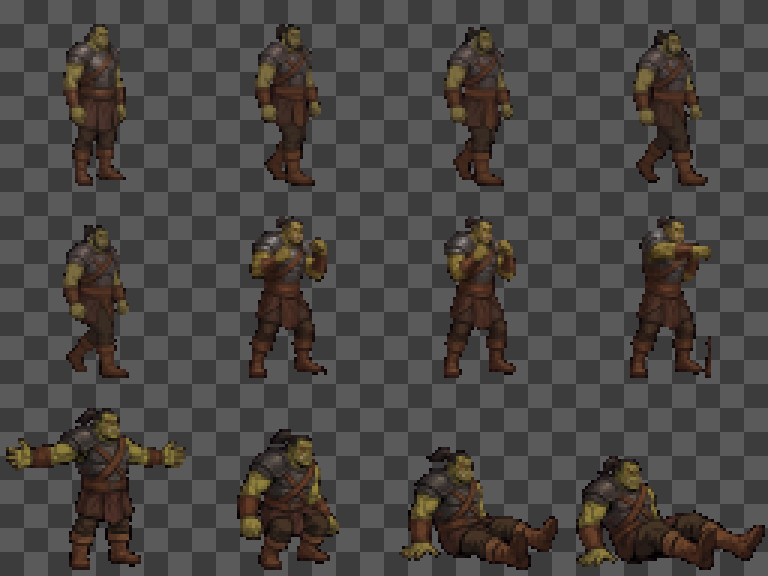
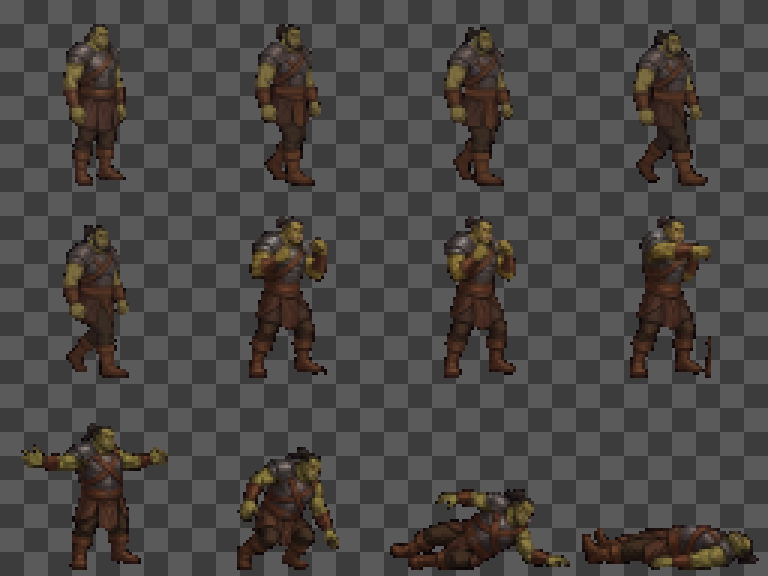
feat(units): orc hero sets wired by race, death animation fixed
anim_set_name() now picks a set by race AND gender: orc men and orc women got
their own 12-frame sheets. Necromants and druids still use the human sheets,
they have no set of their own yet.

The orc man used to sit down when he died instead of falling. Measured on the
source strips, the last panel was w/h 1.67, while a body lying flat reads
2.26-3.01 on the human sets. The death prompt now demands a horizontal body
outright and bans sitting in panels 3-4; the new strip measures w/h 3.84.
Frames 9-12 were re-cut from it, frames 1-8 are byte-identical.

Known cost, accepted by the player: the re-cut came from the Google Vertex
endpoint, because the AI Studio quota was exhausted, and that endpoint draws
the character differently, so the orc loses his cuirass at the moment of
death. Fixing it properly needs the AI Studio quota back, where both prompt
compliance and the existing art style hold.

Pipeline changes:
- extract_hero_nb.py scales a block by BOTH axes, so a wide lying corpse no
  longer overflows the 64px canvas and gets cut; --only/--strip re-cuts a
  single block without touching the other eight frames
- gen_hero_strip.py: femaleize() missed UPPERCASE pronouns, and the leftover
  check matched substrings ("his " inside "This panel is"), so female orcs
  crashed instead of drawing

Changed region(s): [[0.5, 0.7812, 1.0, 1.0], [0.0, 0.6875, 0.25, 1.0], [0.3125, 0.75, 0.4688, 1.0]]

diff --git a/tests/extract_hero_nb.py b/tests/extract_hero_nb.py
@@ -48,6 +48,7 @@ SETS = {
 }
 
 OUT_W, OUT_H, FEET_Y, TARGET_H = 64, 64, 62, 54
+MAX_W = 60        # предел по ширине: та же полоса, что по вертикали (низ 62)
 TOL = 45          # заливка фона от краёв
 STRONG = 120      # порог «настоящей» фигуры против призрака
 MIN_COL = 5       # колонка короче — не фигура
@@ -285,6 +286,10 @@ def main():
     ap = argparse.ArgumentParser()
     ap.add_argument("--tag", default="nb5", choices=sorted(SETS),
                     help="тег полос: nb5 — воин, nb6 — воительница")
+    ap.add_argument("--only", default="", choices=("idle", "walk", "attack", "dying"),
+                    help="перерезать только этот блок, остальные кадры не трогать")
+    ap.add_argument("--strip", default="",
+                    help="полоса для блока из --only (путь к PNG)")
     args = ap.parse_args()
 
     out_folder, out_label = SETS[args.tag]
@@ -298,33 +303,59 @@ def main():
         ("attack", f"hero_attack_{args.tag}.png", 4, 3),
         ("dying", f"hero_die_{args.tag}.png", 4, 4),
     ]:
-        print(f"{name}: {fname}")
-        figs = figures_of(SRC / fname, expect)
+        if args.only and name != args.only:
+            continue
+        # --strip перекрывает полосу этого блока: нужно, когда одна фаза
+        # перегенерирована отдельно, а остальные три остаются из прошлой
+        # сборки (15.10 ночь: у орка поменяли только смерть).
+        src = Path(args.strip) if (args.only and name == args.only and args.strip) else SRC / fname
+        print(f"{name}: {src.name}")
+        figs = figures_of(src, expect)
         if len(figs) != expect or any(f is None for f in figs):
             print(f"FAIL: {name} — фигур {len(figs)}, годных {sum(f is not None for f in figs)}")
             return 1
         blocks.append((name, figs[:take]))
 
+    # Номер первого кадра блока в общей нумерации 1..12. Считается по полной
+    # раскладке, а не по позиции в blocks: при --only в blocks один блок,
+    # а кадры должны попасть на свои места (dying -> 9..12), иначе
+    # перезапись одной фазы сдвинула бы остальные.
+    first = {"idle": 1, "walk": 2, "attack": 6, "dying": 9}
+
     frames = []
     for name, figs in blocks:
-        scale = TARGET_H / max(al.shape[0] for _, al in figs)
-        print(f"{name}: max h={max(al.shape[0] for _, al in figs)} scale={scale:.4f}")
-        for rgb, al in figs:
-            frames.append(fit(rgb, al, scale))
+        # Масштаб блока — общий для всех его фаз, иначе фигура пульсирует
+        # между кадрами. Ограничиваем по ОБЕИМ осям: 15.10 в блоке dying
+        # орка самая высокая фигура стоящая (54 px), а самая широкая — лежащая
+        # (63 px на холсте 64), и по высоте она не влезала: кадр выходил
+        # срезанным по краям. Раньше считался только TARGET_H (15.10).
+        max_h = max(al.shape[0] for _, al in figs)
+        max_w = max(al.shape[1] for _, al in figs)
+        scale = min(TARGET_H / max_h, MAX_W / max_w)
+        print(f"{name}: max h={max_h} w={max_w} scale={scale:.4f}")
+        for k, (rgb, al) in enumerate(figs):
+            frames.append((first[name] + k, fit(rgb, al, scale)))
 
     # Старые кадры от прошлых сборок (25 штук) удаляем: база объявит frames=13,
     # но лишние файлы остались бы в репозитории и импортировались движком.
-    for old in sorted(out_dir.glob("sprites-*.png")):
-        old.unlink()
-    for i, fr in enumerate(frames):
-        fr.save(out_dir / f"sprites-{i + 1:03d}.png")
+    # При --only удалять нельзя — блок один, а кадры остальных фаз на диске
+    # единственные и пришли из другой полосы.
+    if not args.only:
+        for old in sorted(out_dir.glob("sprites-*.png")):
+            old.unlink()
+    for idx, fr in frames:
+        fr.save(out_dir / f"sprites-{idx:03d}.png")
     print(f"записано кадров: {len(frames)}")
 
+    # Контактный лист собирается с диска, по всем sprites-*.png, а не из
+    # набора `frames`: при --only в frames только один блок, и лист из 4
+    # картинок перезаписал бы полный обзор набора из 12 (15.10 ночь).
+    on_disk = sorted(out_dir.glob("sprites-*.png"))
     cols = 4
-    rows = (len(frames) + cols - 1) // cols
+    rows = (len(on_disk) + cols - 1) // cols
     sheet = np.zeros((rows * OUT_H, cols * OUT_W, 3), np.uint8)
-    for i, fr in enumerate(frames):
-        arr = np.array(fr)
+    for i, path in enumerate(on_disk):
+        arr = np.array(Image.open(path).convert("RGBA"))
         yy, xx = np.mgrid[0:OUT_H, 0:OUT_W]
         chk = np.where(((xx // 8) + (yy // 8)) % 2 == 0, 90, 60).astype(np.uint8)
         cell = np.dstack([chk, chk, chk])
@@ -336,9 +367,13 @@ def main():
         .save(out_dir / "_contact_sheet.png")
 
     entry = {
+        # frames — ВСЕГО в наборе (idle1+move4+attack3+dying4 = 12), а не
+        # число записанных в этом прогоне. При --only блок один, и раньше
+        # сюда попадало 4 — набор в базе объявлял бы 4 кадра (15.10 ночь).
         "desc": f"Hero: {out_label}, Gemini 3.1 Flash image preview 4-panel strips, "
                 "three-quarter east view + mirror, idle1+move4+attack3+dying4",
-        "folder": f"hero/{out_folder}", "frames": len(frames), "prefix": "sprites",
+        "frames": 12,
+        "folder": f"hero/{out_folder}", "prefix": "sprites",
         "dirs": 1, "idle_phases": 1, "move": 4, "move_begin": 0,
         "attack": 3, "dying": 4, "decay": 0, "cast": 0, "idle": 0,
         "move_f": [], "move_t": [], "attack_f": [], "attack_t": [], "die_f": [], "dying_t": [],

diff --git a/tests/gen_hero_strip.py b/tests/gen_hero_strip.py
@@ -199,10 +199,17 @@ difference in the rise of his chest. He does not move his feet at all.
 
     "die": """A FALL TO THE GROUND, 4 panels left to right in one row.
 Panel 1: standing upright, both arms flung wide open to the sides.
-Panel 2: sinking down, knees bent, body lowering towards the ground.
-Panel 3: sitting on the ground, leaning back on his hands, legs out.
-Panel 4: lying flat on his back on the ground, face and chest pointing up.
-He NEVER lies face down. """,
+Panel 2: his knees buckle, he drops downwards, the torso already tilted, one hand
+reaching for the ground.
+Panel 3: he has fallen over onto the ground, the body turned down onto its side,
+torso already low and nearly horizontal, one arm stretched out.
+Panel 4: LYING FLAT ON THE GROUND ON HIS BACK, the body completely HORIZONTAL and
+stretched out along the ground, the head at one end and the boots at the other,
+face and chest pointing up. This panel is much WIDER than it is TALL.
+He NEVER lies face down.
+BANNED in panels 3 and 4: sitting upright, squatting, kneeling upright, resting on
+the hands behind the back, legs dangling down, a compact round shape. A SEATED
+figure is WRONG - he has to end up stretched out flat on the ground. """,
 
     "attack": """A FIST PUNCH, 4 panels left to right in one row.
 Panel 1: guard stance, both fists up in front of his chest.
@@ -220,11 +227,17 @@ PERFECTLY UPRIGHT and straight - he does NOT crouch, does NOT bend forward at th
 waist, does NOT squat and is NOT running.
 Panel 3 PASSING: the back foot swings forward and steps right up beside the front
 foot, the legs are TOGETHER, feet almost touching, his body at its highest and
-tallest, spine straight.
+tallest, spine straight. This panel is the NARROWEST of the four - the two legs
+almost overlap each other and the whole silhouette is slim, clearly narrower than
+panel 1.
 Panel 4 PUSH OFF: he rises onto the toes of the back foot, the back leg trailing
-at an angle, the front leg starting to reach forward, body rising.
+at an angle, the front leg starting to reach forward, body rising. The legs are
+only slightly apart here, a normal stride width.
 The 4 panels must show 4 clearly different leg positions, each about a quarter of
-a step apart.""",
+a step apart.
+BANNED in panels 3 and 4: legs spread very wide apart, a deep side lunge, a horse
+stance, a wide straddle, a squat. Panels 3 and 4 are the NARROW panels; only panel
+1 and 2 show the legs wide apart.""",
 }
 
 LAYOUT = """LAYOUT RULES, these matter more than the drawing:
@@ -401,6 +414,14 @@ def femaleize(text: str) -> str:
     out = re.sub(r"\bhis\b", "her", out)
     out = re.sub(r"\bhim\b", "her", out)
     out = re.sub(r"\bhimself\b", "herself", out)
+    # 15.10 (нощь): ЗАГЛАВНЫЕ — тоже. Усиленный промт смерти говорит
+    # "ON HIS BACK", и без этой строки в промте орчины оставалось "HIS":
+    # модель нарисовала бы мужчину поверх женского описания персонажа.
+    # Проверка остатков в main() это не ловила — она искала "His ", не "HIS ".
+    out = re.sub(r"\bHE\b", "SHE", out)
+    out = re.sub(r"\bHIS\b", "HER", out)
+    out = re.sub(r"\bHIM\b", "HER", out)
+    out = re.sub(r"\bHIMSELF\b", "HERSELF", out)
     return out
 
 
@@ -460,10 +481,14 @@ def main():
     pose = table[args.anim]
     if args.sex == "f":
         pose = femaleize(pose)
-        for leftover in ("He ", "His ", "his ", "him ", "He's"):
-            if leftover in pose:
-                raise ValueError(f"в позе '{args.anim}' осталось мужское "
-                                 f"местоимение: {leftover!r}")
+        # Проверка по ГРАНИЦАМ СЛОВ, а не по подстроке. Подстрока давала
+        # ложные срабатывания: "his " находится внутри "This panel is", а
+        # "HE " — внутри "THE GROUND" (15.10 ночь, из-за этого генерация
+        # орк-женщины падала, а не рисовала).
+        male = re.search(r"\b(?:he|his|him|himself)\b", pose, re.IGNORECASE)
+        if male:
+            raise ValueError(f"в позе '{args.anim}' осталось мужское "
+                             f"местоимение: {male.group(0)!r}")
     # Порядок блоков значим: характер -> телосложение -> ракурс -> поза ->
     # раскладка. Телосложение и ракурс стоят ДО описания позы, потому что
     # «SIDE VIEW» в конце промта перебивал «lean» в начале: узкий ракурс
